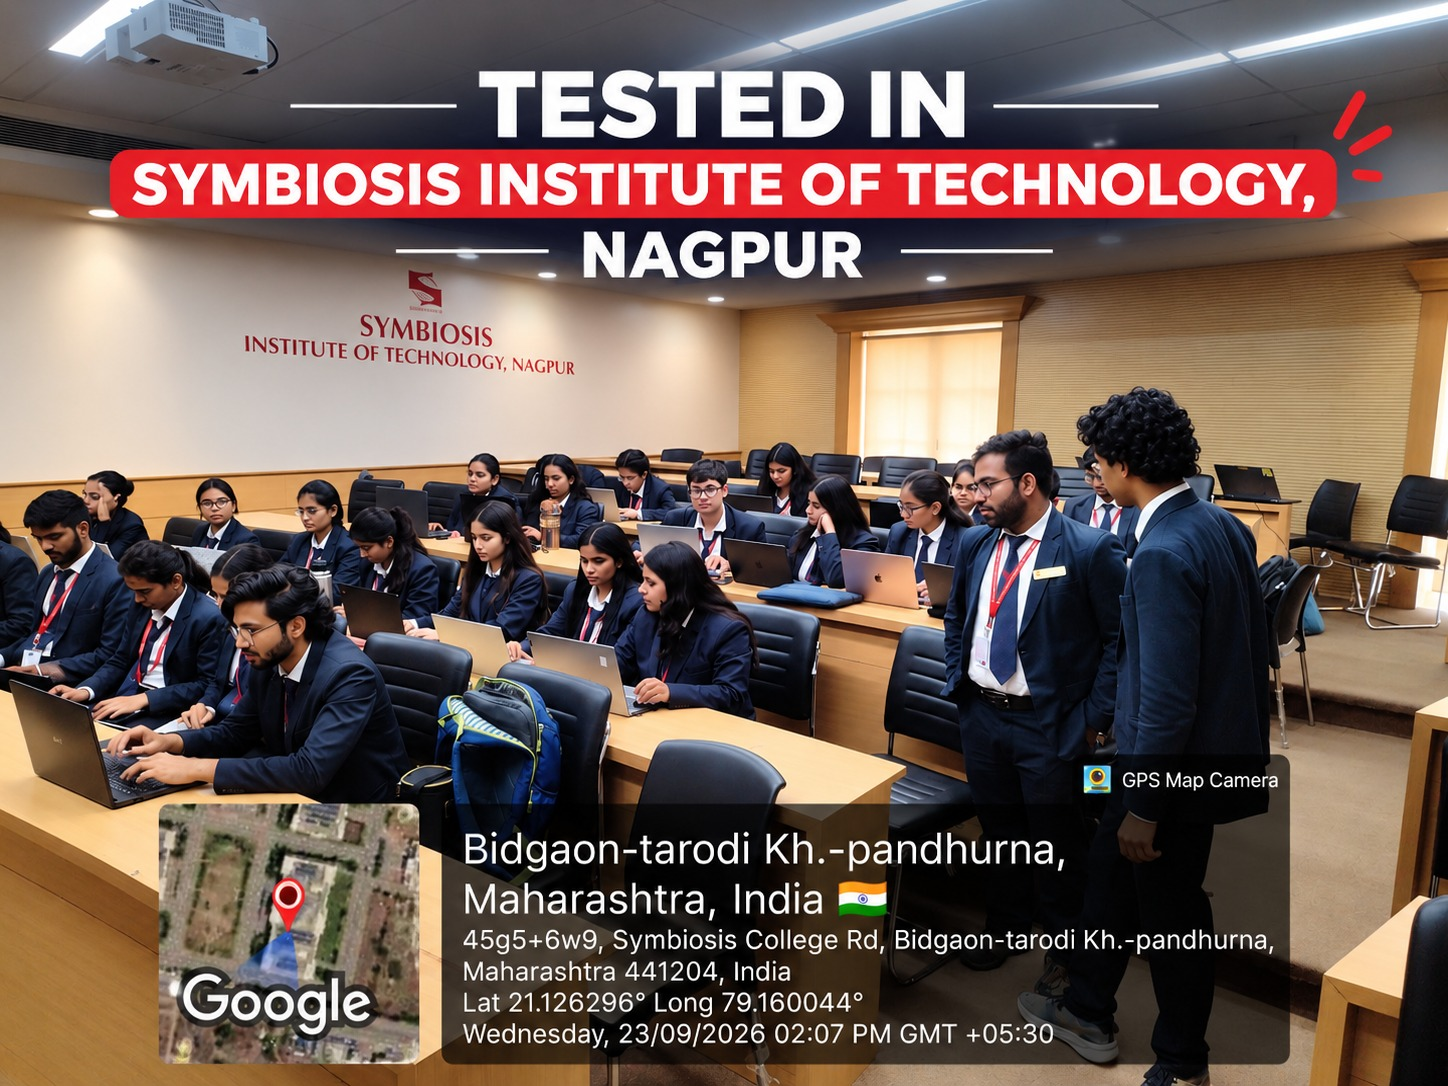
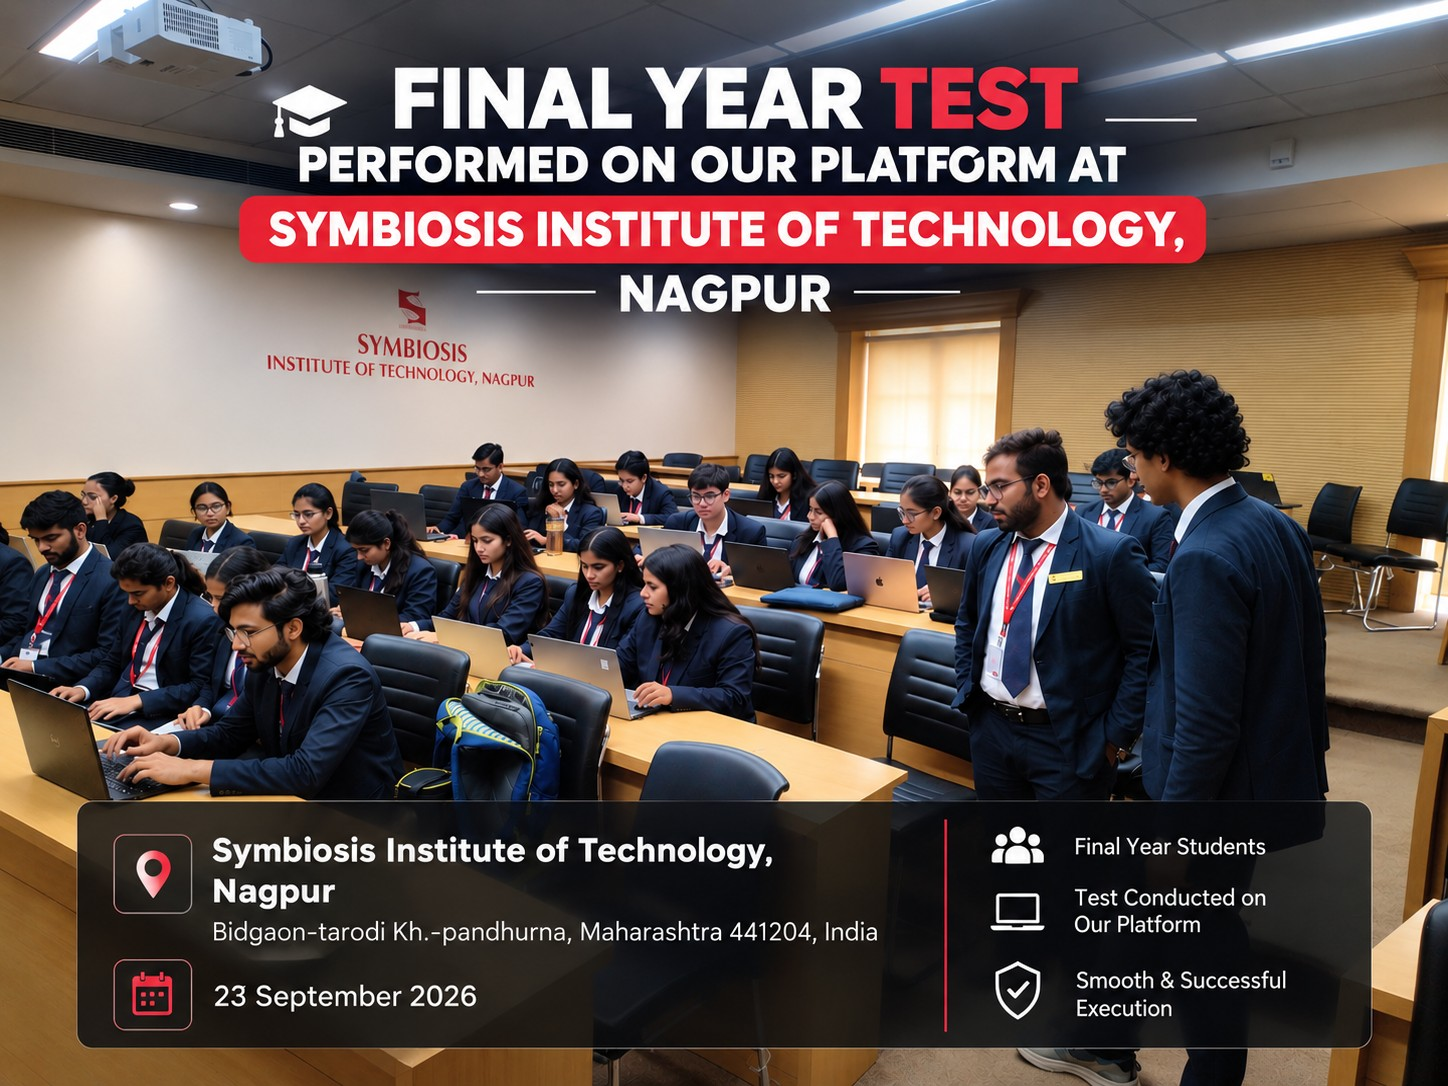
Use the final-year-test graphic for the Symbiosis tested slide
Replaces the geotagged camera shot with the updated graphic, which carries
the same "final year test performed on our platform" wording as the section
heading and a cleaner date and location panel.

The replacement arrived as a PNG under a .jpg name at 1.96MB. It is now an
actual JPEG at quality 90, 336KB and visually indistinguishable, so the file
is what its extension says and the raw asset is served with the right type.

The slide's alt text described the camera stamp the old picture had; it now
describes this one — the banner and the date panel.

diff --git a/src/lib/constants/campus.ts b/src/lib/constants/campus.ts
@@ -109,9 +109,9 @@ export const CAMPUS_SYMBIOSIS: CampusProofItem[] = [
   {
     id: "symbiosis-tested",
     src: "/campus/symbiosis-nagpur-tested.jpg",
-    alt: "Students at Symbiosis Institute of Technology, Nagpur taking a test on laptops while two CloudWeb staff observe, with a geotagged camera stamp showing the date and location.",
+    alt: "Final year students at Symbiosis Institute of Technology, Nagpur taking a test on laptops while two CloudWeb staff observe, under a banner reading 'Final year test performed on our platform' and a panel giving the date, 23 September 2026.",
     title: "Tested on site",
-    caption: "23 September 2026, Symbiosis College Road, Nagpur — a live locked-down test run with the CloudWeb team in the room.",
+    caption: "23 September 2026, Nagpur — final year students sitting a live, locked-down test on Campus, with the CloudWeb team in the room.",
   },
 ];
 
